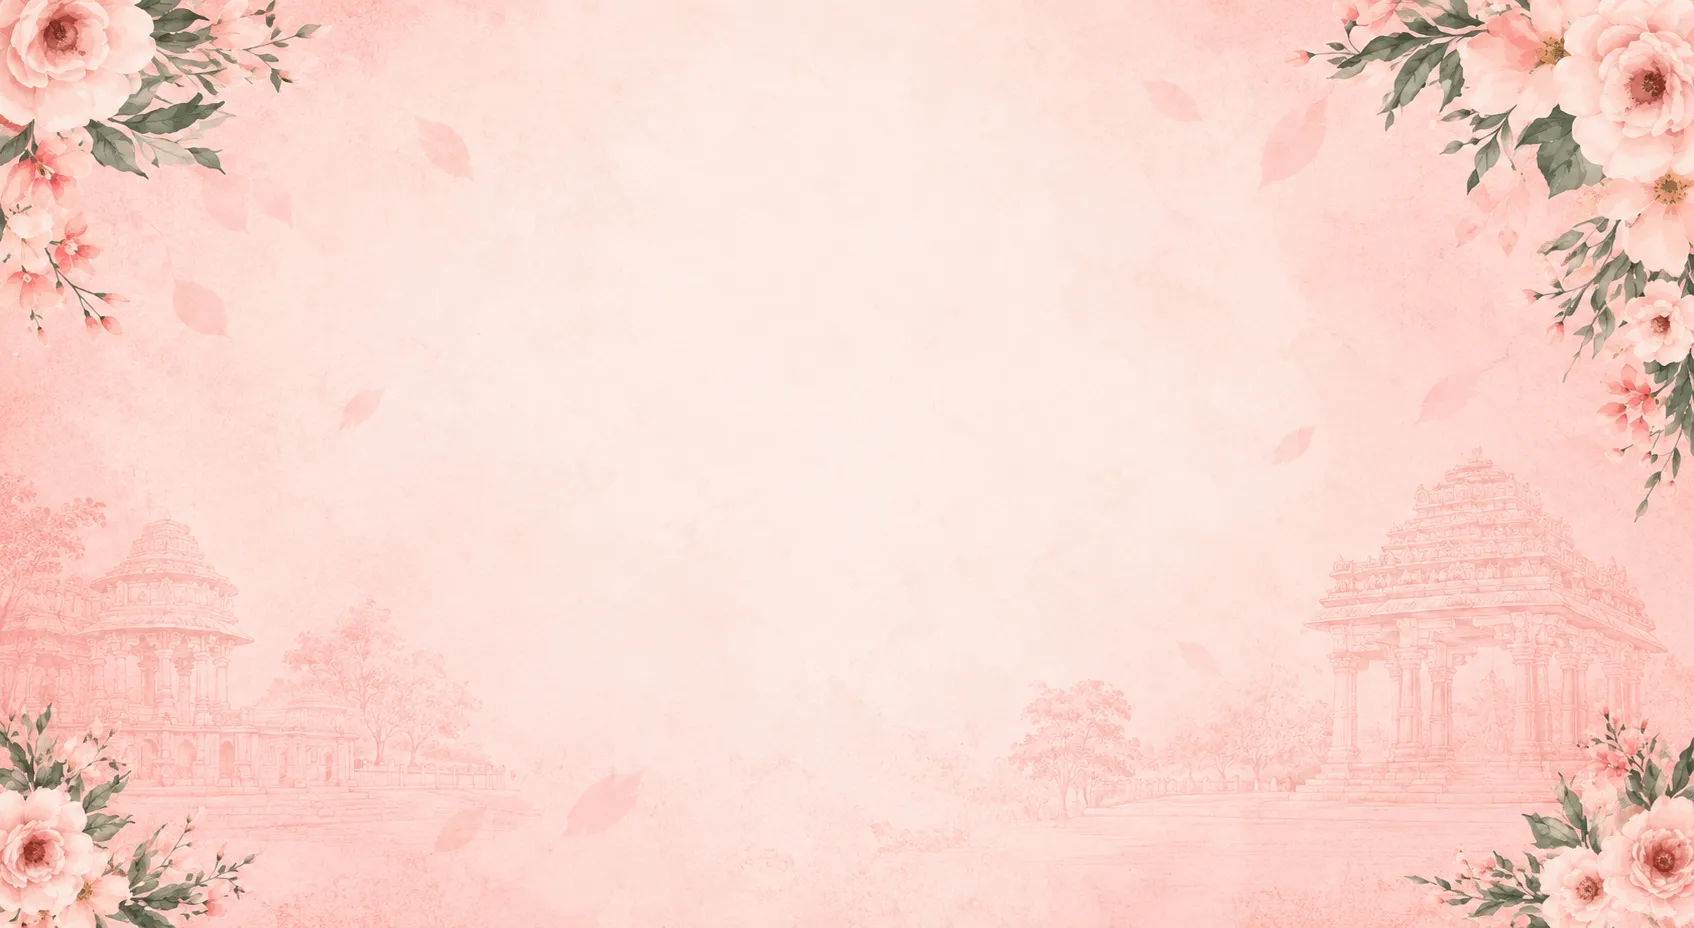
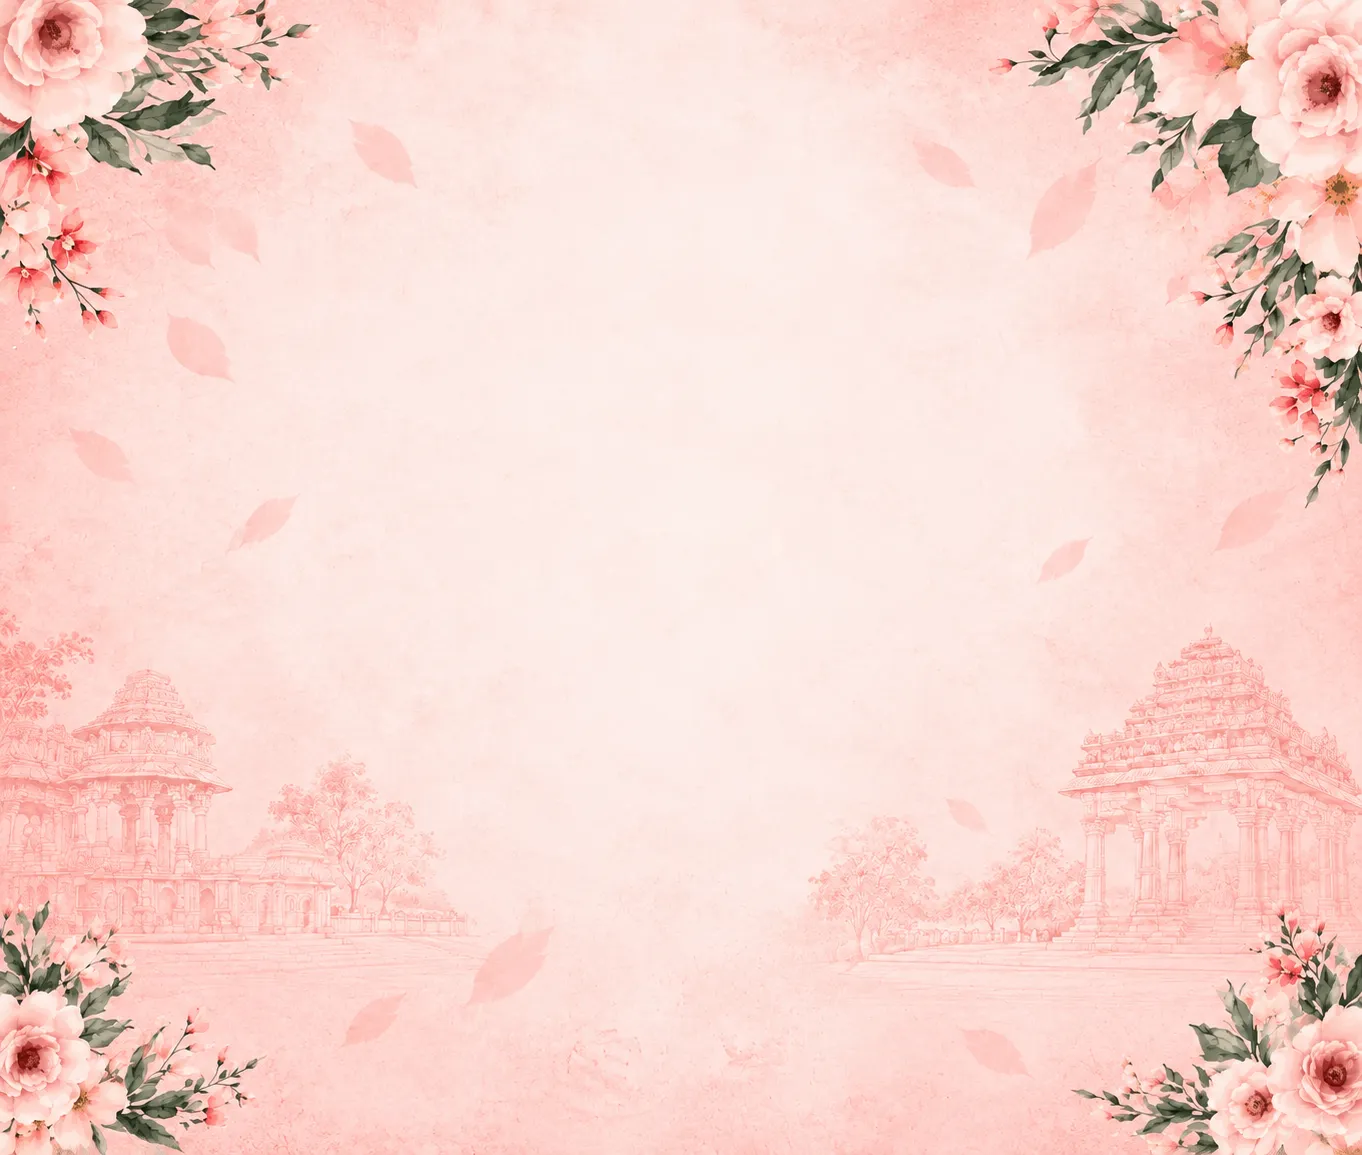
Initial commit

diff --git a/index.html b/index.html
@@ -128,14 +128,10 @@
         <div class="divider animate-item fade-in delay-3">
             <div class="divider-flower floating" style="animation-delay:-2s;">❀</div>
         </div>
-        <p style="font-family:'Cinzel',serif; font-size:0.8rem; color:var(--gold); letter-spacing:0.2em;"
+        <!-- <p style="font-family:'Cinzel',serif; font-size:0.8rem; color:var(--gold); letter-spacing:0.2em;"
             class="animate-item fade-up delay-3">
             14 · 15 NOVEMBER 2026 &nbsp;|&nbsp; A.K MAHAL, TRICHY
-        </p>
-    </section>
-
-    <!-- ===== INVITE ===== -->
-    <section id="invite">
+        </p> -->
         <div class="section-inner" style="position:relative; z-index:1;">
             <span class="section-tag animate-item slide-left"
                 style="display: flex; justify-content: center; align-items: center;">
@@ -155,6 +151,28 @@
             </div>
         </div>
     </section>
+
+    <!-- ===== INVITE ===== -->
+    <!-- <section id="invite">
+        <div class="section-inner" style="position:relative; z-index:1;">
+            <span class="section-tag animate-item slide-left"
+                style="display: flex; justify-content: center; align-items: center;">
+                <img src="assets/images/heart.png" alt="Wedding Invitation">
+                With Love &amp; Joy</span>
+            <h2 class="section-title animate-item fade-up delay-1">You're Invited</h2>
+            <div class="divider animate-item fade-in delay-2" style="max-width:300px;">
+                <div class="divider-flower" style="color:var(--gold);">✦</div>
+            </div>
+            <p class="section-body animate-item fade-up delay-3">
+                Every love story is beautiful… but ours is our favorite ❤<br><br> With immense joy in our hearts, we
+                invite you to be a part of the most special chapter of our lives. Your presence will make our
+                celebration complete.
+            </p>
+            <div class="divider animate-item fade-in delay-4" style="margin-top:2rem;max-width:300px;">
+                <div class="divider-flower" style="color:var(--gold);">✿</div>
+            </div>
+        </div>
+    </section> -->
 
     <!-- ===== SCRATCH CARD ===== -->
     <section id="scratch-section">
@@ -211,7 +229,7 @@
     </section>
 
     <!-- ===== COUPLE ===== -->
-    <section id="couple">
+    <!-- <section id="couple">
         <div class="section-inner">
             <div style="text-align:center;">
                 <span class="section-tag animate-item fade-up">💑 The Couple</span>
@@ -235,7 +253,7 @@
                 </div>
             </div>
         </div>
-    </section>
+    </section> -->
 
     <!-- ===== COUNTDOWN ===== -->
     <section id="countdown-section">
@@ -329,7 +347,7 @@
     </section>
 
     <!-- ===== INVITES ===== -->
-    <section id="invites">
+    <!-- <section id="invites">
         <div class="section-inner">
             <div style="text-align:center;">
                 <span class="section-tag animate-item fade-up">💖 Personal Invites</span>
@@ -353,7 +371,7 @@
                 <p>"Not just a wedding…<br>It's a celebration of love, family &amp; forever."</p>
             </div>
         </div>
-    </section>
+    </section> -->
 
     <!-- ===== VENUE ===== -->
     <section id="venue">
@@ -419,7 +437,7 @@
     </section>
 
     <!-- ===== THANK YOU ===== -->
-    <section id="thankyou">
+    <!-- <section id="thankyou">
         <div class="section-inner">
             <span class="section-tag animate-item fade-up"
                 style="display: flex; align-items: center; justify-content: center;text-align:center;">
@@ -444,7 +462,7 @@
                 </a>
             </div>
         </div>
-    </section>
+    </section> -->
 
     <!-- ===== FOOTER ===== -->
     <footer>

diff --git a/assets/css/style.css b/assets/css/style.css
@@ -196,7 +196,7 @@ body {
 
 #hero {
     min-height: 100vh;
-    background: linear-gradient(180deg, var(--ivory) 0%, var(--cream) 100%);
+    /* background: linear-gradient(180deg, var(--ivory) 0%, var(--cream) 100%); */
     position: relative;
     display: flex;
     flex-direction: column;
@@ -207,7 +207,16 @@ body {
     overflow: hidden;
 }
 
-#hero::before {
+body {
+    position: relative;
+    background: linear-gradient(#ffffff38, #ffffff38), url(../images/wedding-bg-1.webp);
+    background-size: cover;
+    background-attachment: fixed;
+    height: 100%;
+    width: 100%;
+}
+
+/* body::before {
     content: '';
     position: absolute;
     opacity: .5;
@@ -216,8 +225,7 @@ body {
     background-size: cover;
     width: 100%;
     height: 100%;
-    /* background-image: radial-gradient(ellipse at 20% 20%, rgba(123, 31, 46, 0.05) 0%, transparent 50%), radial-gradient(ellipse at 80% 80%, rgba(201, 160, 74, 0.05) 0%, transparent 50%); */
-}
+} */
 
 /* Mandala background */
 
@@ -801,7 +809,7 @@ section {
 /* ===== VENUE SECTION ===== */
 
 #venue {
-    background: var(--cream);
+    /* background: var(--cream); */
     text-align: center;
 }
 
